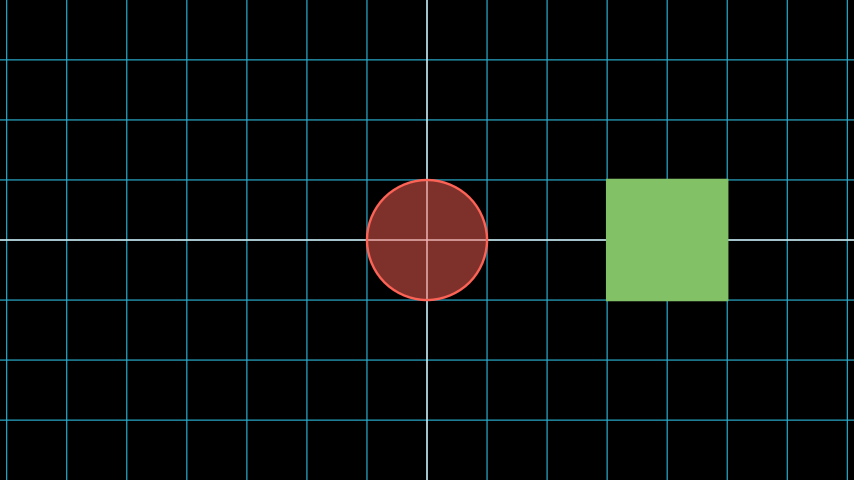
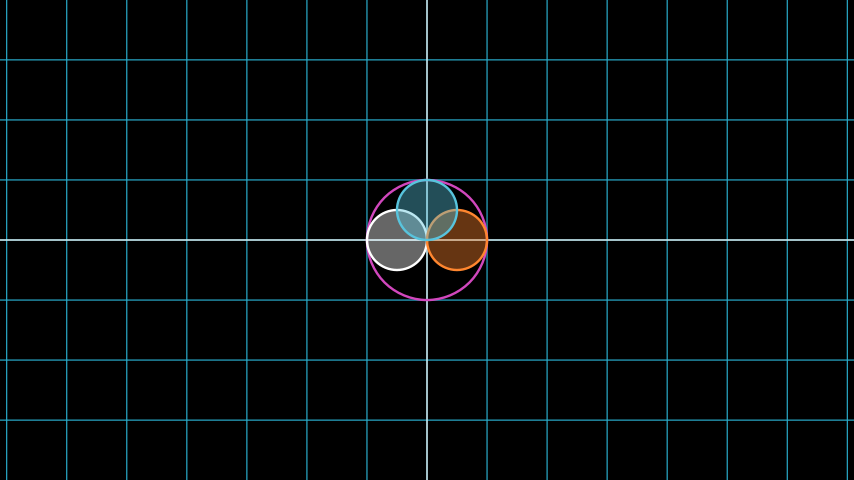
added E02(CriticalPoint).py

Changed region(s): [[0.7002, 0.3438, 0.8525, 0.6562], [0.4262, 0.375, 0.5785, 0.625]]

diff --git a/E02(positoning).py b/E02(positoning).py
@@ -1,0 +1,36 @@
+from manim import*
+
+class Positioning(Scene):
+    def construct(self):
+        plane = NumberPlane()
+        self.add(plane)
+
+        '''# next_to
+        cir = Circle(color=RED, fill_opacity=0.5)
+        sq = Square(color= GREEN, fill_opacity = 1)
+        sq.next_to(cir, RIGHT, buff= 2)
+        self.add(cir, sq)
+
+        #shift
+        sq2= Square(color = PINK, fill_opacity = 0.9)
+        sq2.shift(UP*3+LEFT*3)
+        self.add(sq2)
+
+        #move_to
+        sq3 = Square(color= PURPLE, fill_opacity = 0.7)
+        sq3.move_to([3,4,0])
+        self.add(sq3)'''
+
+        #align_to
+        c0 = Circle(color=PINK)
+        c1 = Circle(radius=0.5, color=WHITE, fill_opacity=0.4)
+        c2 = c1.copy().set_color(ORANGE)
+        c3 = c1.copy().set_color(BLUE)
+
+        c1.align_to(c0, LEFT)
+        c2.align_to(c0, RIGHT)
+        c3.align_to(c0, UP)
+        self.add(c0,c1, c2,c3)
+    ''' align_to doesn't necessarily move the objects away
+     It only aligns the boundary of the objects with respect to the direction (like RIGHT or UP).
+     As a result, c2 and c3 might end up overlapping or placed in ways you don't expect.'''

diff --git a/E01.py b/E01.py
@@ -37,7 +37,7 @@ class SquareToCircle(Scene):
 # এখানে Transform ব্যাবহার করা হয়নি কারন এটা ব্যবহার করলে blue_circle fade_out 
 # করার সময় একটা ধাপ দেয় মানে green_square কেও কি কি বা করে।  তাই ReplacementTransform ব্যাবহার করতে হবে
 # যাতে একটা আরেকটাকে রিপ্লেস করে
-        # self.play(Indicate(cic).set_color(RED))
+         # self.play(Indicate(cic).set_color(RED))
         # এটা দিয়ে একটু যুম করে
         self.play(FadeOut(cic))
         self.wait()

diff --git a/E02(CriticalPoint).py b/E02(CriticalPoint).py
@@ -1,0 +1,13 @@
+from manim import*
+class CriticalPoint(Scene):
+    def construct(self):
+        circle = Circle(color=RED, fill_opacity = 0.5)
+        self.add(circle)
+
+        for d in [(0,0,0), UP, LEFT, RIGHT, DOWN, UL, UR, DL, DR]:
+            self.add(Cross(scale_factor=0.2).move_to(circle.get_critical_point(d)))
+
+        sq = Square(color = GREEN, fill_opacity=0.5)
+        sq.move_to([1,0,0], aligned_edge=LEFT)
+        # মানে square এর LEFT crtical point  এর সাথে align করে থাকবে  [1,0,0]
+        self.add(sq)
